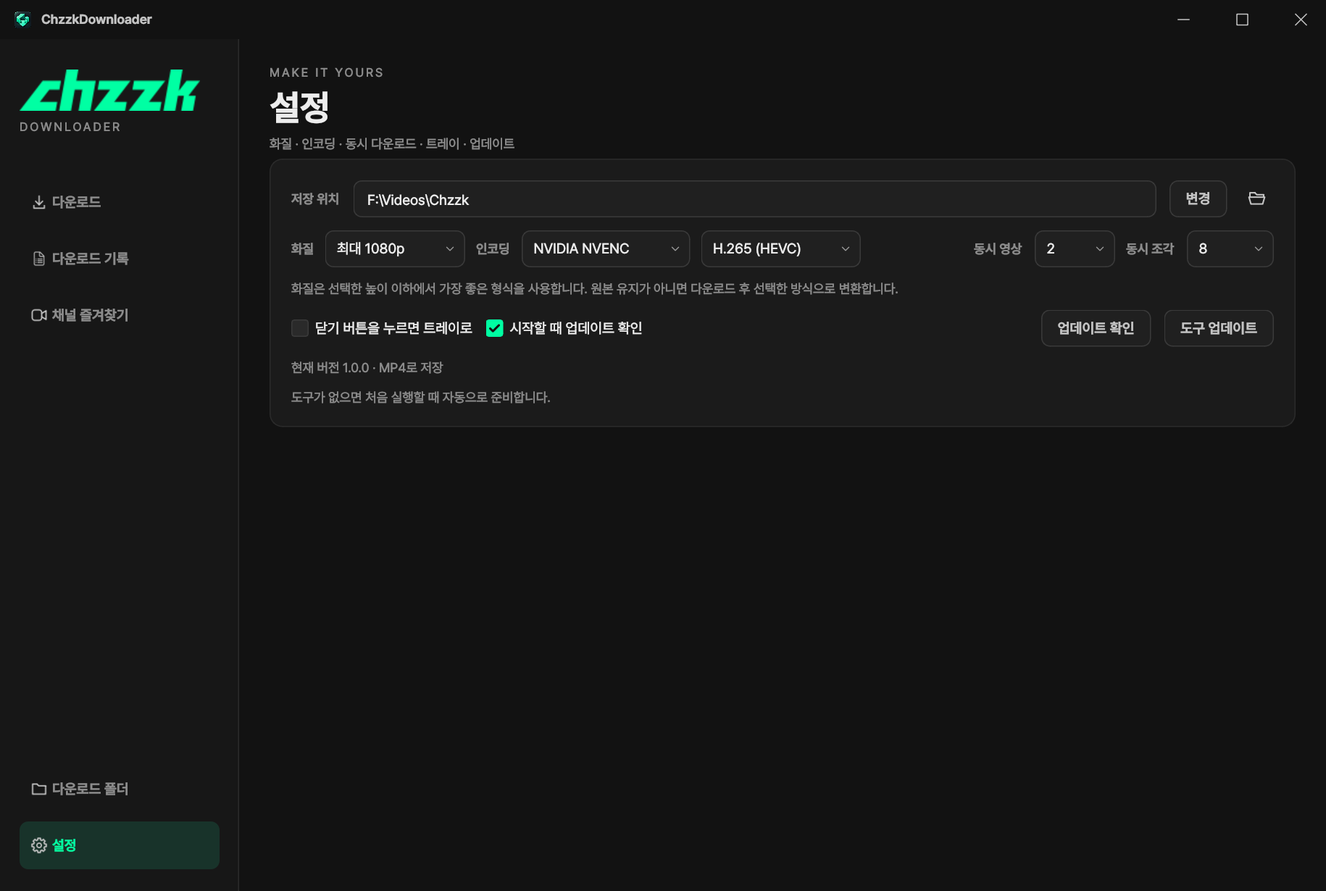
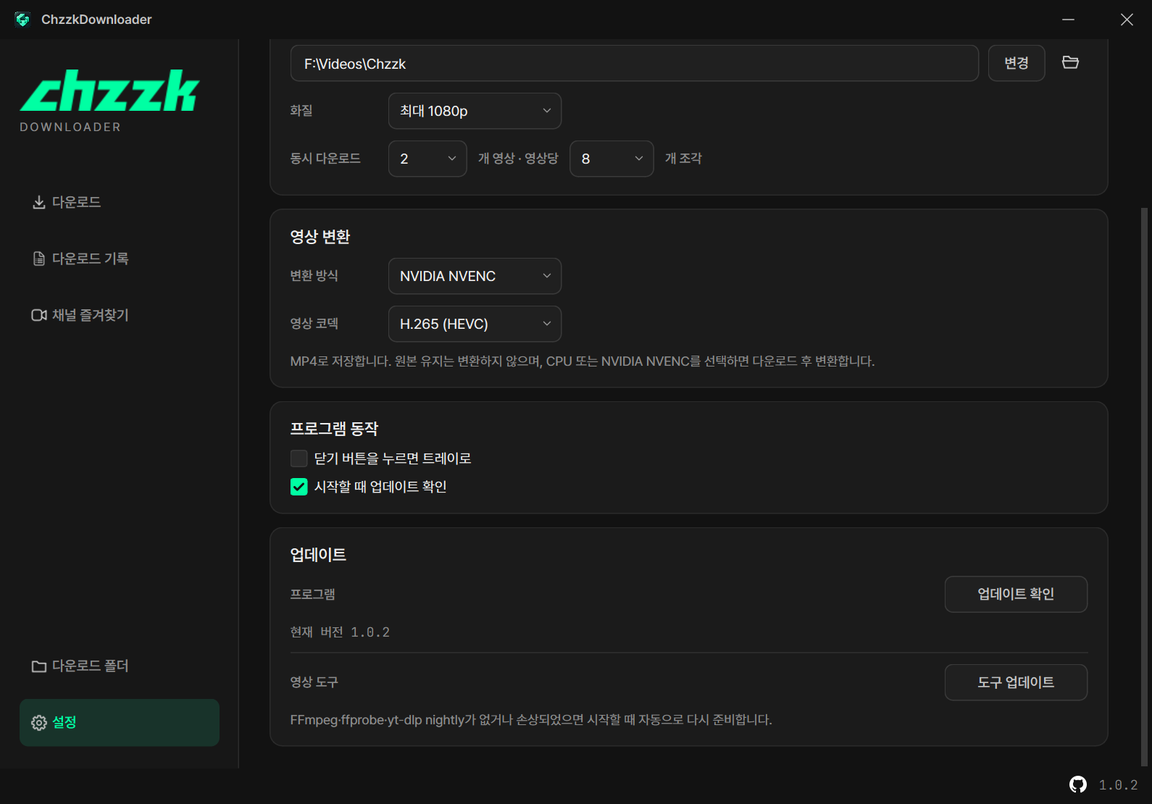
v1.0.2

diff --git a/docs/index.html b/docs/index.html
@@ -4,7 +4,7 @@
   <meta charset="utf-8">
   <meta name="viewport" content="width=device-width, initial-scale=1">
   <meta name="theme-color" content="#101412">
-  <meta name="description" content="ChzzkDownloader — 치지직 VOD와 클립을 내 폴더에. 화질 선택, 여러 영상 다운로드, 채널 즐겨찾기와 다운로드 기록까지 제공하는 Windows 다운로더.">
+  <meta name="description" content="ChzzkDownloader — 치지직 VOD와 클립을 내 폴더에. 치지직·YouTube·TVer 등 영상 주소 분석, 대기 목록 복원, 채널 즐겨찾기와 다운로드 기록을 제공하는 Windows 다운로더.">
   <title>ChzzkDownloader — 다시 보고 싶은 순간을, 내 폴더에</title>
   <link rel="icon" href="img/logo.svg" type="image/svg+xml">
   <link rel="stylesheet" href="style.css">
@@ -25,15 +25,15 @@
         <h1>다시 보고 싶은 순간을,<br><em>내 폴더에.</em></h1>
         <p class="lead">긴 다시보기도, 짧은 클립도.<br>링크를 붙여넣으면 나만의 영상 라이브러리가 시작됩니다.</p>
         <div class="hero-actions"><a class="button primary" href="https://github.com/deuxdoom/ChzzkDownloader/releases/latest" data-download><span class="github-icon" aria-hidden="true"></span>다운로드(.zip) <span aria-hidden="true">↓</span></a><a class="button secondary" href="#preview">화면 살펴보기 <span aria-hidden="true">↘</span></a></div>
-        <p class="availability">Windows 데스크톱 · 1.0.1 · 폴더형 포터블 앱</p>
-        <p class="release-note"><code>ChzzkDownloader_v101.zip</code> · 배포 파일은 GitHub 정식 릴리스에서 제공합니다.</p>
+        <p class="availability">Windows 데스크톱 · 1.0.2 · 폴더형 포터블 앱</p>
+        <p class="release-note"><code>ChzzkDownloader_v102.zip</code> · 배포 파일은 GitHub 정식 릴리스에서 제공합니다.</p>
       </div>
       <div class="hero-art" aria-hidden="true"><div class="orbit orbit-one"></div><div class="orbit orbit-two"></div><img src="img/logo.svg" width="256" height="256" alt=""><span class="art-label">KEEP THE MOMENT.</span></div>
     </section>
 
     <section class="guide wrap" id="start" data-chapter aria-labelledby="guide-title">
       <div class="guide-heading"><p class="eyebrow">THREE STEPS. YOUR LIBRARY.</p><h2 id="guide-title">시작하기</h2></div>
-      <ol class="steps"><li><span class="step-number">1</span><div><h3>프로그램 열기</h3><p><code>ChzzkDownloader_v101.zip</code>을 풀고 폴더 구조를 유지한 채 <code>ChzzkDownloader.exe</code>를 실행합니다. <code>lib</code>·<code>bin</code> 폴더는 EXE와 함께 두세요.</p></div></li><li><span class="step-number">2</span><div><h3>저장 위치와 옵션 고르기</h3><p>사이드바 맨 아래 ‘설정’에서 저장 위치·화질·인코딩·동시 다운로드 수를 정합니다. 저장 위치는 다음 실행에도 유지됩니다.</p></div></li><li><span class="step-number">3</span><div><h3>주소 붙여넣고 다운로드</h3><p>영상 주소를 붙여넣고 ‘다운로드’를 누르세요. 여러 영상은 ‘다중 다운로드’ 창에 한 줄씩 넣습니다. 이번 실행의 완료 영상은 다운로드 목록에서 바로 재생할 수 있습니다.</p></div></li></ol>
+      <ol class="steps"><li><span class="step-number">1</span><div><h3>프로그램 열기</h3><p><code>ChzzkDownloader_v102.zip</code>을 풀고 폴더 구조를 유지한 채 <code>ChzzkDownloader.exe</code>를 실행합니다. <code>lib</code>·<code>bin</code> 폴더는 EXE와 함께 두세요.</p></div></li><li><span class="step-number">2</span><div><h3>저장 위치와 옵션 고르기</h3><p>사이드바 맨 아래 ‘설정’에서 저장 위치·화질·인코딩·동시 다운로드 수를 정합니다. 저장 위치는 다음 실행에도 유지됩니다.</p></div></li><li><span class="step-number">3</span><div><h3>주소 붙여넣고 다운로드</h3><p>영상 주소를 붙여넣고 ‘다운로드’를 누르세요. 여러 영상은 ‘다중 다운로드’ 창에 한 줄씩 넣습니다. 이번 실행의 완료 영상은 다운로드 목록에서 바로 재생할 수 있습니다.</p></div></li></ol>
     </section>
 
     <section class="story" id="features" data-chapter aria-label="기능 스크롤 소개">
@@ -50,7 +50,7 @@
         </div>
         <div class="story-art" aria-hidden="true">
           <div class="story-glow"></div>
-          <div class="story-device"><img class="story-image library" src="img/app-input.png" width="1830" height="1230" alt=""><img class="story-image preferences" src="img/app-quality.png" width="1830" height="1230" alt=""><img class="story-image background" src="img/app-history.png" width="1830" height="1230" alt=""></div>
+          <div class="story-device"><img class="story-image library" src="img/app-input.png" width="1590" height="1110" alt=""><img class="story-image preferences" src="img/app-quality.png" width="1590" height="1110" alt=""><img class="story-image background" src="img/app-history.png" width="1590" height="1110" alt=""></div>
           <span class="floating-chip chip-a">MP4 · YOUR LIBRARY</span><span class="floating-chip chip-b">1080p · 60 fps</span><span class="floating-chip chip-c">CPU / NVIDIA NVENC</span>
         </div>
       </div>
@@ -60,54 +60,66 @@
       <p class="eyebrow">SMALL DETAILS. BETTER DOWNLOADS.</p>
       <h2 id="features-title">다운로드는 간단하게.<br>관리는 꼼꼼하게.</h2>
       <div class="feature-grid">
-        <article class="feature"><span class="feature-no">01 / INPUT</span><h3>링크만 있으면 준비 끝.</h3><p>치지직 VOD·클립은 물론 YouTube·인스타그램 등 어떤 사이트의 영상 주소든 붙여넣으세요. ‘다중 다운로드’ 창에 주소를 한 줄씩 넣어 한 번에 추가하거나, 브라우저에서 끌어놓을 수 있습니다.</p><span class="pill">ANY VIDEO URL</span></article>
+        <article class="feature"><span class="feature-no">01 / INPUT</span><h3>링크만 있으면 준비 끝.</h3><p>치지직 VOD·클립은 물론 YouTube·인스타그램·TVer 등 어떤 사이트의 영상 주소든 붙여넣으세요. ‘다중 다운로드’ 창에 주소를 한 줄씩 넣어 한 번에 추가하거나, 브라우저에서 끌어놓을 수 있습니다.</p><span class="pill">ANY VIDEO URL</span></article>
         <article class="feature"><span class="feature-no">02 / QUALITY</span><h3>내가 고른 화질과 형식.</h3><p>최고 화질 또는 원하는 해상도 상한을 선택하세요. MP4로 저장합니다. 원본 유지 또는 CPU/NVIDIA NVENC 인코딩, H.264(AVC)/H.265(HEVC)를 선택하세요.</p><span class="pill">MP4 · AVC / HEVC</span></article>
-        <article class="feature"><span class="feature-no">03 / SPEED</span><h3>긴 영상도 차근차근.</h3><p>최대 4개 영상과 영상당 최대 16개 조각을 동시에 다운로드합니다. 진행률과 전송 속도, 남은 시간을 카드에서 확인하세요.</p><span class="pill">PARALLEL DOWNLOADS</span></article>
+        <article class="feature"><span class="feature-no">03 / SPEED</span><h3>긴 영상도 차근차근.</h3><p>최대 4개 영상과 영상당 최대 16개 조각을 동시에 다운로드합니다. GB·MB 단위의 전송량과 진행률·속도·남은 시간을 카드에서 확인하세요. 숫자에는 JetBrains Mono를 적용했습니다.</p><span class="pill">PARALLEL DOWNLOADS</span></article>
         <article class="feature"><span class="feature-no">04 / HISTORY</span><h3>완료 영상은 바로 재생.</h3><p>이번 실행의 완료 영상은 다운로드 목록에서 재생하거나 더블클릭하세요. ‘완료 항목 정리’로 숨겨도 영상과 기록은 남습니다. 이전 실행의 작업·실패·취소 항목은 다운로드 기록에서 확인합니다.</p><span class="pill">DOWNLOAD HISTORY</span></article>
-        <article class="feature"><span class="feature-no">05 / CONTROL</span><h3>필요할 때 잠깐 쉬어가기.</h3><p>대기열을 멈추면 진행 중인 영상은 계속 받고 다음 작업의 시작을 기다립니다. 실패한 작업은 한 번에 재시도하세요.</p><span class="pill">QUEUE CONTROL</span></article>
+        <article class="feature"><span class="feature-no">05 / CONTROL</span><h3>필요할 때 잠깐 쉬어가기.</h3><p>대기열을 멈추면 진행 중인 영상은 계속 받고 다음 작업의 시작을 기다립니다. 취소·대기·종료 중단 목록은 다시 실행해도 대기로 남고, ‘대기열 계속’을 누르면 이어집니다. 실패한 작업은 한 번에 재시도하세요.</p><span class="pill">QUEUE CONTROL</span></article>
         <article class="feature"><span class="feature-no">06 / YOUR FILES</span><h3>영상은 내 폴더에 바로.</h3><p>영상 제목 그대로 저장하고 같은 이름이 있으면 번호를 붙입니다. 목록 정리와 다운로드 취소에도 이미 완성한 파일은 보존됩니다.</p><span class="pill">LOCAL FIRST</span></article>
         <article class="feature"><span class="feature-no">07 / BACKGROUND</span><h3>트레이에서 이어가기.</h3><p>창을 숨겨도 다운로드는 계속됩니다. 트레이 메뉴에서 대기열을 멈추거나 재개하고, 완료 알림으로 다시 돌아오세요.</p><span class="pill">SYSTEM TRAY</span></article>
         <article class="feature"><span class="feature-no">08 / UPDATES</span><h3>새 버전으로 자연스럽게.</h3><p>새 버전의 추가·변경·수정 내역을 먼저 보여 줍니다. ‘지금 업데이트’를 선택하면 다운로드가 끝난 뒤 같은 프로그램의 독립 업데이트 모드가 배포 파일을 검증하고 프로그램을 교체합니다.</p><span class="pill">INDEPENDENT UPDATER</span></article>
         <article class="feature"><span class="feature-no">09 / ENCODING</span><h3>빠르게, 또는 가볍게.</h3><p>원본 유지가 기본입니다. 변환이 필요할 때 CPU/NVENC와 AVC/HEVC를 선택하세요. 변환 실패·취소 시 다운로드한 원본은 보존합니다.</p><span class="pill">AVC / HEVC</span></article>
         <article class="feature"><span class="feature-no">10 / FAVORITES</span><h3>즐겨찾는 채널에서 골라 받기.</h3><p>채널명이나 주소로 검색해 즐겨찾기에 저장하세요. 채널 카드를 누르면 VOD를 썸네일·제목·날짜로 확인하고 원하는 영상만 선택해 받을 수 있습니다.</p><span class="pill">CHANNEL FAVORITES</span></article>
-        <article class="feature"><span class="feature-no">11 / TOOLS</span><h3>영상 도구도 간편하게.</h3><p>첫 실행에 FFmpeg·ffprobe와 yt-dlp nightly를 받고, 시작할 때마다 확인해 없거나 손상되었으면 자동으로 다시 준비합니다. 작업이 끝난 뒤 설정의 ‘도구 업데이트’를 누르면 최신 FFmpeg와 yt-dlp nightly를 검증하고 다음 다운로드부터 적용합니다.</p><span class="pill">FFMPEG · YT-DLP NIGHTLY</span></article>
+        <article class="feature"><span class="feature-no">11 / TOOLS</span><h3>영상 도구도 간편하게.</h3><p>첫 실행에 FFmpeg·ffprobe와 yt-dlp nightly를 받고, 시작할 때마다 확인해 없거나 손상되었으면 자동으로 다시 준비합니다. 작업이 끝난 뒤 설정의 ‘도구 업데이트’를 누르면 바뀌었거나 손상된 도구만 검증해 교체합니다. 이미 최신인 도구는 다시 받지 않습니다.</p><span class="pill">FFMPEG · YT-DLP NIGHTLY</span></article>
+        <article class="feature"><span class="feature-no">12 / DUPLICATES</span><h3>같은 영상은 한 번 더 확인.</h3><p>완료 기록과 같은 영상 주소를 다시 넣으면 중복 다운로드 안내를 보여 줍니다. ‘다시 다운로드’를 선택한 영상만 새로 추가합니다.</p><span class="pill">DOWNLOAD CONFIRMATION</span></article>
+        <article class="feature"><span class="feature-no">13 / LOGS</span><h3>필요한 로그만 펼쳐 보기.</h3><p>‘완료 항목 정리’ 오른쪽의 로그 버튼으로 열고 닫습니다. 카드 선택이나 작업 필터로 원하는 로그만 확인하며, 스크롤바 때문에 버튼과 카드가 좌우로 밀리지 않습니다.</p><span class="pill">JOB LOG FILTER</span></article>
       </div>
     </section>
 
     <section class="preview wrap" id="preview" data-chapter aria-labelledby="preview-title">
-      <div class="preview-top"><div><p class="eyebrow">A CALMER WAY TO DOWNLOAD</p><h2 id="preview-title">필요한 것만, 한눈에.</h2></div><span class="version-tag">ChzzkDownloader 1.0.1</span></div>
-      <div class="screen"><img src="img/app-download.png" width="1830" height="1230" alt="ChzzkDownloader의 다운로드 화면. 왼쪽 사이드바에 다운로드·다운로드 기록·채널 즐겨찾기와 맨 아래 다운로드 폴더·설정, 오른쪽에 주소 입력·다중 다운로드 버튼과 대기·진행·완료 영상 카드가 보입니다. 완료 카드는 재생할 수 있습니다." fetchpriority="high"></div>
-      <p class="caption">실제 앱 인터페이스 · 작업 내용은 화면 소개를 위한 예시입니다.</p>
+      <div class="preview-top"><div><p class="eyebrow">A CALMER WAY TO DOWNLOAD</p><h2 id="preview-title">필요한 것만, 한눈에.</h2></div><span class="version-tag">ChzzkDownloader 1.0.2</span></div>
+      <div class="screen"><img src="img/app-download.png" width="1590" height="1110" alt="ChzzkDownloader의 다운로드 화면. 왼쪽 사이드바에 다운로드·다운로드 기록·채널 즐겨찾기와 맨 아래 다운로드 폴더·설정, 오른쪽에 주소 입력·다중 다운로드 버튼과 대기·진행·완료 영상 카드가 보입니다. 완료 카드는 재생할 수 있습니다." fetchpriority="high"></div>
+      <p class="caption">실제 1.0.2 앱 인터페이스 · 영상과 진행 상태는 소개용 예시입니다. 메인 창 오른쪽 아래의 흰색 GitHub 아이콘만 저장소 링크이며, 버전 숫자는 일반 표시입니다.</p>
     </section>
 
     <section class="settings wrap" id="multi-download" aria-labelledby="multi-title">
-      <div class="settings-copy"><p class="eyebrow">MORE LINKS. ONE LIST.</p><h2 id="multi-title">여러 영상도,<br>한 줄씩 간단하게.</h2><p>다운로드 화면의 ‘다중 다운로드’를 누르고 주소를 한 줄에 하나씩 넣으세요. 주소 개수를 확인한 뒤 ‘다운로드 (개수)’를 누르면 입력한 순서대로 목록에 추가됩니다.</p><p class="muted">중복 주소와 주소가 아닌 입력은 건너뜁니다. 설정한 동시 영상 수만큼 받고, 나머지는 대기합니다.</p></div>
-      <div class="settings-screen"><img src="img/app-multi.png" width="960" height="630" loading="lazy" alt="다중 다운로드 창. 여러 사이트의 영상 주소를 한 줄씩 입력하고 주소 개수와 다운로드 버튼을 확인합니다."></div>
+      <div class="settings-copy"><p class="eyebrow">MORE LINKS. ONE LIST.</p><h2 id="multi-title">여러 영상도,<br>한 줄씩 간단하게.</h2><p>다운로드 화면의 ‘다중 다운로드’를 누르고 주소를 한 줄에 하나씩 넣으세요. 주소 개수를 확인한 뒤 ‘다운로드 (개수)’를 누르면 입력한 순서대로 목록에 추가됩니다.</p><p class="muted">입력 안의 중복 주소와 주소가 아닌 줄은 건너뜁니다. 완료 기록과 같은 영상은 다시 다운로드할지 먼저 확인합니다. TVer는 일본 VPN에 연결한 뒤 받아야 하며 다운로드가 끝날 때까지 연결을 유지하세요.</p></div>
+      <div class="settings-screen"><img src="img/app-multi.png" width="960" height="662" loading="lazy" alt="다중 다운로드 창. 여러 사이트의 영상 주소를 한 줄씩 입력하고 주소 개수와 다운로드 버튼을 확인합니다."></div>
     </section>
 
     <section class="settings wrap" id="settings" aria-labelledby="settings-title">
-      <div class="settings-copy"><p class="eyebrow">SET IT ONCE.</p><h2 id="settings-title">취향에 맞춰 두면,<br>그다음은 붙여넣기.</h2><p>사이드바 맨 아래의 ‘설정’에서 저장 위치, 화질, 인코딩, 동시 다운로드 수, 트레이와 업데이트를 정하세요. 저장 위치를 바꾸면 다음 실행에도 유지됩니다. 첫 실행에 FFmpeg·ffprobe와 yt-dlp nightly를 받고 시작할 때마다 확인해 없거나 손상된 도구를 자동 준비하며, ‘도구 업데이트’로 최신 FFmpeg·yt-dlp nightly를 받을 수 있습니다.</p><p class="muted">기존 yt-dlp 지원 사이트도 함께 사용할 수 있습니다. 사이트의 변경이나 계정 접근 조건에 따라 다운로드 가능 여부가 달라질 수 있습니다.</p></div>
-      <div class="settings-screen"><img src="img/app-settings.png" width="1830" height="1230" loading="lazy" alt="설정 화면. 저장 위치·화질·CPU/NVENC·H.264/H.265·동시 영상과 조각 수·트레이·프로그램 업데이트 확인과 도구 업데이트를 설정합니다."></div>
+      <div class="settings-copy"><p class="eyebrow">SET IT ONCE.</p><h2 id="settings-title">취향에 맞춰 두면,<br>그다음은 붙여넣기.</h2><p>사이드바 맨 아래의 ‘설정’에서 저장·다운로드, 영상 변환, 프로그램 동작, 업데이트 카드에서 필요한 항목을 정하세요. 저장 위치를 바꾸면 다음 실행에도 유지됩니다. 첫 실행에 FFmpeg·ffprobe와 yt-dlp nightly를 받고 시작할 때마다 확인해 없거나 손상된 도구를 자동 준비하며, ‘도구 업데이트’는 최신 도구를 다시 받지 않고 필요한 도구만 교체합니다. 창 크기는 해상도와 Windows 배율에 맞춰 자동으로 정해지고, 작은 화면에서는 설정 내용을 스크롤로 볼 수 있습니다.</p><p class="muted">기존 yt-dlp 지원 사이트도 함께 사용할 수 있습니다. 사이트의 변경이나 계정 접근 조건에 따라 다운로드 가능 여부가 달라질 수 있습니다.</p></div>
+      <div class="settings-screen"><img src="img/app-settings.png" width="1590" height="1110" loading="lazy" alt="설정 화면. 저장 위치·화질·CPU/NVENC·H.264/H.265·동시 영상과 조각 수·트레이·프로그램 업데이트 확인과 도구 업데이트를 설정합니다."></div>
     </section>
 
     <section class="channels wrap" id="channels" data-chapter aria-labelledby="channels-title">
       <div class="channels-head"><div><p class="eyebrow">YOUR CHANNELS. YOUR PICKS.</p><h2 id="channels-title">좋아하는 채널은,<br>카드 한 장으로.</h2></div><p>‘채널 즐겨찾기’에서 채널명이나 주소로 찾아 ‘추가’를 누르세요. 저장한 카드를 누르면 그 채널의 VOD가 썸네일·제목·날짜와 함께 펼쳐지고, 원하는 영상만 골라 바로 받을 수 있습니다.</p></div>
       <div class="channel-shots">
-        <figure><div class="settings-screen"><img src="img/app-favorites.png" width="1830" height="1230" loading="lazy" alt="채널 즐겨찾기 화면. 위쪽에 채널 주소 검색과 오른쪽에 ‘추가’ 버튼이 있는 결과 카드, 아래쪽에 아바타와 채널명이 있는 저장한 채널 카드 다섯 개가 있습니다."></div><figcaption>검색하고, 추가하고, 카드로 모아 두기</figcaption></figure>
-        <figure><div class="settings-screen"><img src="img/app-channel.png" width="1830" height="1230" loading="lazy" alt="채널 VOD 화면. 채널 아바타와 이름 아래에 썸네일·재생 시간·제목·게시일이 있는 VOD 카드가 격자로 놓이고, 선택한 두 카드가 민트색으로 표시됩니다."></div><figcaption>썸네일로 고르고, 선택한 영상만 다운로드</figcaption></figure>
+        <figure><div class="settings-screen"><img src="img/app-favorites.png" width="1590" height="1110" loading="lazy" alt="채널 즐겨찾기 화면. 위쪽에 채널명·주소 검색과 오른쪽에 ‘추가’ 버튼이 있는 결과 카드, 아래쪽에 아바타와 채널명이 있는 저장한 채널 카드 다섯 개가 있습니다."></div><figcaption>검색하고, 추가하고, 카드로 모아 두기</figcaption></figure>
+        <figure><div class="settings-screen"><img src="img/app-channel.png" width="1590" height="1110" loading="lazy" alt="채널 VOD 화면. 채널 아바타와 이름 아래에 썸네일·재생 시간·제목·게시일이 있는 VOD 카드가 격자로 놓이고, 선택한 두 카드가 민트색으로 표시됩니다."></div><figcaption>썸네일로 고르고, 선택한 영상만 다운로드</figcaption></figure>
       </div>
       <p class="caption">실제 앱 인터페이스 · 채널과 VOD 정보는 공개 목록 예시이며, 작업 상태는 화면 소개를 위한 예시입니다.</p>
     </section>
 
+    <section class="settings wrap" id="tools" aria-labelledby="tools-title">
+      <div class="settings-copy"><p class="eyebrow">READY AT A GLANCE.</p><h2 id="tools-title">도구 준비도,<br>하단에서 한눈에.</h2><p>어느 탭에 있든 하단 상태바에서 도구 확인·다운로드·설치 상황을 확인할 수 있습니다. 다운로드 진행률은 민트색으로 표시하며, 완료 안내는 5초 뒤 서서히 사라집니다.</p><p class="muted">실제 1.0.2 화면 · 도구 다운로드 55%는 소개용 예시입니다.</p></div>
+      <div class="settings-screen"><img src="img/app-tools.png" width="1590" height="1110" loading="lazy" alt="모든 탭에 표시되는 메인 창 하단 도구 다운로드 상태와 55% 진행률, 오른쪽 아래 GitHub 아이콘과 버전 1.0.2 예시."></div>
+    </section>
+
+    <section class="settings wrap" id="age-rating" aria-labelledby="age-title">
+      <div class="settings-copy"><p class="eyebrow">KNOW BEFORE YOU PICK.</p><h2 id="age-title">연령 제한은,<br>썸네일에서 확인.</h2><p>연령 확인이 필요한 치지직 영상은 썸네일 오른쪽 위의 빨간색 19세 배지로 구분합니다. 공개 영상과 지역 제한만 있는 영상에는 이 배지를 표시하지 않습니다.</p><p class="muted">실제 1.0.2 화면 · 영상과 제한 상태는 소개용 예시입니다. 로그인 쿠키 가져오기 기능은 제공하지 않습니다.</p></div>
+      <div class="settings-screen"><img src="img/app-channel-age.png" width="1590" height="1110" loading="lazy" alt="연령 제한 표시 예시 채널의 썸네일 오른쪽 위에 표시한 빨간색 19세 배지와 배지가 없는 공개 영상 카드."></div>
+    </section>
+
     <section class="settings updates wrap" id="updates" aria-labelledby="updates-title">
-      <div class="settings-copy"><p class="eyebrow">ALWAYS UP TO DATE.</p><h2 id="updates-title">새 버전은,<br>알아서 안전하게.</h2><p>시작할 때 GitHub의 정식 릴리스를 확인합니다. 처음 뜨는 안내창에서 추가·변경·수정 내역을 읽고 ‘지금 업데이트’ 또는 ‘나중에’를 선택하세요. 설치를 고르면 진행 중인 다운로드가 끝난 뒤 업데이트 창이 이어받아 새 버전을 준비합니다.</p><ol class="update-steps"><li>새 버전의 변경 내역 확인 · 지금 업데이트 / 나중에 선택</li><li>ZIP 다운로드 · SHA-256 검증</li><li>프로그램 파일만 교체 · 실패하면 원래대로 복원</li><li>다시 시작 · 완료 5초 뒤 업데이트 창 자동 닫힘</li></ol><p class="muted">저장한 영상 · 다운로드 기록 · 설정 · 채널 즐겨찾기는 바꾸지 않습니다. ‘설정 → 업데이트 확인’으로 직접 확인할 수도 있습니다.</p></div>
+      <div class="settings-copy"><p class="eyebrow">ALWAYS UP TO DATE.</p><h2 id="updates-title">새 버전은,<br>알아서 안전하게.</h2><p>시작할 때 GitHub의 정식 릴리스를 확인합니다. 처음 뜨는 안내창에서 추가·변경·수정 내역을 읽고 ‘지금 업데이트’ 또는 ‘나중에’를 선택하세요. 설치를 고르면 진행 중인 다운로드가 끝난 뒤 업데이트 창이 이어받아 새 버전을 준비합니다.</p><ol class="update-steps"><li>새 버전의 변경 내역 확인 · 지금 업데이트 / 나중에 선택</li><li>ZIP 다운로드 · SHA-256 검증</li><li>프로그램 파일만 교체 · 실패하면 원래대로 복원</li><li>다시 시작 · 완료 5초 뒤 업데이트 창 자동 닫힘</li></ol><p class="muted">저장한 영상 · 다운로드 기록 · 설정 · 채널 즐겨찾기는 바꾸지 않습니다. ‘설정 → 업데이트 확인’으로 직접 확인하면 최신 버전일 때도 안내창을 보여 줍니다.</p></div>
       <div class="settings-screen update-screen"><img src="img/app-update.png" width="960" height="900" loading="lazy" alt="업데이트 창. 새 버전 파일을 내려받는 진행률과 상태, 릴리스 내역, 저장한 영상·기록·설정은 그대로 이어진다는 안내가 보입니다."></div>
     </section>
 
-    <section class="faq wrap" id="faq" data-chapter aria-labelledby="faq-title"><h2 id="faq-title">궁금한 점이 있다면.</h2><details><summary>어떤 주소를 입력하나요?</summary><p>영상이 있는 페이지의 주소라면 사이트를 가리지 않고 분석해 받습니다. 치지직은 <code>https://chzzk.naver.com/video/번호</code> VOD 주소나 <code>https://chzzk.naver.com/clips/ID</code> 클립 주소, 그 밖에 YouTube(쇼츠)·인스타그램 릴스 등의 개별 영상 주소를 입력하세요. 여러 주소는 ‘다중 다운로드’ 창에 한 줄씩 넣으세요. 채널에서 고르려면 ‘채널 즐겨찾기’에 저장한 뒤 VOD 카드를 선택하세요.</p></details><details><summary>채널 즐겨찾기는 어떻게 쓰나요?</summary><p>채널명 또는 <code>https://chzzk.naver.com/채널ID</code> 주소로 검색해 결과 카드의 ‘추가’를 누릅니다. 저장한 카드를 누르면 공개 VOD가 썸네일·제목·날짜 카드로 표시되고, 카드를 눌러 선택한 영상만 다운로드합니다.</p></details><details><summary>로그인이 필요한 영상도 받을 수 있나요?</summary><p>공개 영상만 지원합니다. 연령 확인이 필요하거나 구독자 전용인 영상은 받을 수 없습니다.</p></details><details><summary>일시정지를 누르면 받던 영상도 멈추나요?</summary><p>대기열 일시정지는 새로운 영상의 시작을 멈춥니다. 진행 중인 영상은 계속 다운로드하며, 해당 영상의 취소 버튼으로 중단할 수 있습니다.</p></details><details><summary>기록을 정리하면 영상도 지워지나요?</summary><p>다운로드 기록에서 해당 항목과 미리보기 캐시만 제거합니다. 저장 폴더의 영상 파일은 유지됩니다.</p></details></section>
+    <section class="faq wrap" id="faq" data-chapter aria-labelledby="faq-title"><h2 id="faq-title">궁금한 점이 있다면.</h2><details><summary>어떤 주소를 입력하나요?</summary><p>영상이 있는 페이지의 주소라면 사이트를 가리지 않고 분석해 받습니다. 치지직은 <code>https://chzzk.naver.com/video/번호</code> VOD 주소나 <code>https://chzzk.naver.com/clips/ID</code> 클립 주소, 그 밖에 YouTube(쇼츠)·인스타그램 릴스 등의 개별 영상 주소를 입력하세요. 여러 주소는 ‘다중 다운로드’ 창에 한 줄씩 넣으세요. 채널에서 고르려면 ‘채널 즐겨찾기’에 저장한 뒤 VOD 카드를 선택하세요.</p></details><details><summary>채널 즐겨찾기는 어떻게 쓰나요?</summary><p>채널명 또는 <code>https://chzzk.naver.com/채널ID</code> 주소로 검색해 결과 카드의 ‘추가’를 누릅니다. 저장한 카드를 누르면 공개 VOD가 썸네일·제목·날짜 카드로 표시되고, 카드를 눌러 선택한 영상만 다운로드합니다.</p></details><details><summary>TVer 영상은 어떻게 받나요?</summary><p>TVer의 개별 에피소드 주소를 넣으세요. 일본 VPN에 연결해야 하며 다운로드가 끝날 때까지 유지해야 합니다.</p></details><details><summary>취소·대기 목록은 다시 실행하면 어떻게 되나요?</summary><p>대기 상태로 복원되며 자동으로 시작하지 않습니다. ‘대기열 계속’을 누르면 저장한 위치와 옵션으로 시작합니다. 완료 기록과 같은 영상을 추가하면 다시 다운로드할지 확인합니다.</p></details><details><summary>로그인이 필요한 영상도 받을 수 있나요?</summary><p>공개 영상만 지원합니다. 연령 확인이 필요한 치지직 영상은 19세 배지로 표시하지만, 로그인 쿠키를 가져오는 기능은 없어 연령 확인·구독자 전용 영상은 받을 수 없습니다.</p></details><details><summary>일시정지를 누르면 받던 영상도 멈추나요?</summary><p>대기열 일시정지는 새로운 영상의 시작을 멈춥니다. 진행 중인 영상은 계속 다운로드하며, 해당 영상의 취소 버튼으로 중단할 수 있습니다.</p></details><details><summary>기록을 정리하면 영상도 지워지나요?</summary><p>다운로드 기록에서 해당 항목과 미리보기 캐시만 제거합니다. 저장 폴더의 영상 파일은 유지됩니다.</p></details></section>
 
     <section class="closing wrap" id="download" data-chapter><div><p class="eyebrow">READY WHEN YOU ARE.</p><h2>좋아하는 방송을,<br>오래 간직하세요.</h2></div><div class="closing-actions"><a class="button primary" href="https://github.com/deuxdoom/ChzzkDownloader/releases/latest" data-download><span aria-hidden="true">↓</span> 다운로드(.zip)</a><a class="button secondary" href="https://github.com/deuxdoom/ChzzkDownloader/releases/latest"><span class="github-icon" aria-hidden="true"></span>최신 릴리즈 확인 <span aria-hidden="true">↗</span></a></div></section>
   </main>
-  <footer class="footer wrap"><div><a class="brand" href="#"><img src="img/logo.svg" width="28" height="28" alt=""><span>ChzzkDownloader</span></a><p>치지직·YouTube 등 영상 주소를 받는 개인 프로젝트. NAVER의 공식 프로그램이 아닙니다.</p><p>소스 비공개 · 배포 및 소개 목적 · 사전 허락 없는 상업적 이용·재배포 금지</p></div><div class="footer-links"><a href="https://github.com/deuxdoom/ChzzkDownloader"><span class="github-icon" aria-hidden="true"></span>GitHub</a><a href="https://github.com/deuxdoom/ChzzkDownloader/issues"><span class="github-icon" aria-hidden="true"></span>문제 제보</a><a href="https://github.com/deuxdoom/ChzzkDownloader/blob/main/LICENSE">이용 조건</a><a href="https://github.com/deuxdoom/TVerDownloader"><span class="github-icon" aria-hidden="true"></span>참고 프로젝트</a></div></footer>
+  <footer class="footer wrap"><div><a class="brand" href="#"><img src="img/logo.svg" width="28" height="28" alt=""><span>ChzzkDownloader</span></a><p>치지직·YouTube·TVer 등 영상 주소를 받는 개인 프로젝트. NAVER의 공식 프로그램이 아닙니다.</p><p>소스 비공개 · 배포 및 소개 목적 · 사전 허락 없는 상업적 이용·재배포 금지</p></div><div class="footer-links"><a href="https://github.com/deuxdoom/ChzzkDownloader"><span class="github-icon" aria-hidden="true"></span>GitHub</a><a href="https://github.com/deuxdoom/ChzzkDownloader/issues"><span class="github-icon" aria-hidden="true"></span>문제 제보</a><a href="https://github.com/deuxdoom/ChzzkDownloader/blob/main/LICENSE">이용 조건</a><a href="https://github.com/deuxdoom/TVerDownloader"><span class="github-icon" aria-hidden="true"></span>참고 프로젝트</a></div></footer>
 </body>
 </html>

diff --git a/README.md b/README.md
@@ -11,6 +11,8 @@
 
 ![ChzzkDownloader 다운로드 화면](docs/img/app-download.png)
 
+1.0.2의 실제 앱 화면입니다. 영상과 진행 상태는 소개를 위한 예시입니다.
+
 <p align="center">
   <a href="https://deuxdoom.github.io/ChzzkDownloader/"><img src="https://img.shields.io/badge/%ED%99%88%ED%8E%98%EC%9D%B4%EC%A7%80-00b377?style=for-the-badge" alt="홈페이지"></a>
   <a href="https://github.com/deuxdoom/ChzzkDownloader/releases/latest"><img src="https://img.shields.io/github/v/release/deuxdoom/ChzzkDownloader?style=for-the-badge&label=%EB%8B%A4%EC%9A%B4%EB%A1%9C%EB%93%9C&labelColor=2f353a&color=00b377" alt="최신 버전 다운로드"></a>
@@ -34,9 +36,9 @@
 
 ## 📌 간단 소개
 
-치지직 VOD와 클립을 MP4로 저장하는 프로그램입니다. 
-주소를 붙여넣거나, 즐겨찾는 채널에서 영상을 골라 받습니다. 
-유투브 영상, 인스타 릴스를 비롯 yt-dlp가 지원하는 기타 영상도 받을 수 있습니다.
+치지직 VOD·클립, YouTube, 인스타그램, TVer 등 여러 사이트의 영상 주소를 분석해 MP4로 저장하는 Windows 프로그램입니다.
+주소를 붙여넣거나, 즐겨찾는 치지직 채널에서 영상을 골라 받습니다.
+TVer는 일본 VPN에 연결한 상태에서 다운로드해야 합니다.
 
 <a id="requirements"></a>
 
@@ -54,22 +56,37 @@
 - **완료 항목**: 이번 실행에서 완료한 영상은 다운로드 목록에서 재생하거나 더블클릭. ‘완료 항목 정리’로 숨겨도 기록과 영상은 유지
 - **대기 목록 복원**: 취소·대기·종료 중단 작업은 다시 실행하면 대기 상태로 복원. ‘대기열 계속’을 누르면 이전 저장 위치와 다운로드 설정으로 시작
 - **중복 다운로드 확인**: 완료 기록과 같은 영상 주소를 다시 넣으면 다시 다운로드할지 확인
-- **채널 즐겨찾기**: 채널명이나 주소로 검색해 저장하고, 저장한 카드를 드래그해 순서 변경. 채널 VOD를 썸네일·제목·날짜 카드로 보며 골라 받기
+- **채널 즐겨찾기**: 채널명이나 주소로 검색해 저장하고, 저장한 카드를 드래그해 순서 변경. 채널 VOD를 썸네일·제목·날짜 카드로 보며 골라 받기. 연령 제한 영상은 썸네일 오른쪽 위의 19세 배지로 구분
 - **다운로드 기록**: 완료·실패·취소 작업을 따로 모아 다시 재생·재시도. 썸네일은 다시 열어도 유지
+- **작업 로그**: 목록 상단의 로그 버튼으로 열고 닫기. 카드 선택이나 로그 필터로 원하는 작업만 확인하며 로그를 열어도 입력창·버튼·카드가 좌우로 밀리지 않음
 - **MP4 저장·변환**: 원본 유지가 기본. 필요하면 CPU 또는 NVIDIA NVENC로 H.264(AVC)·H.265(HEVC) 변환. 변환이 실패하거나 취소돼도 원본 보존
 - **트레이 실행**: 창을 닫아도 트레이에서 다운로드 계속, 대기열 일시정지·재개, 완료 알림
-- **자동 업데이트**: GitHub 정식 릴리스의 추가·변경·수정 내역을 확인한 뒤 ‘지금 업데이트’·‘나중에’를 선택. 설치 시 SHA-256 검증 후 프로그램만 교체. 영상·기록·설정은 그대로
-- **도구 업데이트**: 첫 실행에 FFmpeg·ffprobe와 yt-dlp nightly를 받고, 시작할 때마다 확인해 없거나 손상되었으면 자동으로 다시 준비. 설정의 ‘도구 업데이트’는 최신 도구를 다시 받지 않고 바뀌었거나 손상된 도구만 교체해 다음 다운로드부터 적용
+- **자동 업데이트**: GitHub 정식 릴리스의 추가·변경·수정 내역을 확인한 뒤 ‘지금 업데이트’·‘나중에’를 선택. 설치 시 SHA-256 검증 후 프로그램만 교체. 영상·기록·설정은 그대로. 설정에서 직접 확인했을 때 최신이면 안내창 표시
+- **도구 업데이트**: 첫 실행에 FFmpeg·ffprobe와 yt-dlp nightly를 받고, 시작할 때마다 확인해 없거나 손상되었으면 자동으로 다시 준비. 모든 탭의 하단에서 상태·진행률을 확인하고, 완료 안내는 5초 뒤 서서히 사라짐. 설정의 ‘도구 업데이트’는 최신 도구를 다시 받지 않고 바뀌었거나 손상된 도구만 교체
+- **화면과 버전 표시**: 화면 해상도와 Windows 배율에 맞춘 고정 창. 진행률·속도·버전에는 JetBrains Mono를 적용하고, 메인 창 오른쪽 아래의 흰색 GitHub 아이콘을 누르면 저장소로 이동
 
 <a id="usage"></a>
 
 ## 🚀 사용 방법
 
 1. 릴리스의 `.zip` 파일을 다운받아 압축을 풀고 `ChzzkDownloader.exe`를 실행합니다.
-2. 첫 실행에는 인터넷으로 필요한 영상 도구(FFmpeg·ffprobe, yt-dlp nightly)를 자동으로 받습니다. 도구 파일이 손상되었으면 시작할 때 다시 받습니다. 준비가 끝나면 사이드바 맨 아래 **설정**에서 저장 위치·화질·인코딩·동시 다운로드 수를 정합니다. 
+2. 첫 실행에는 인터넷으로 필요한 영상 도구(FFmpeg·ffprobe, yt-dlp nightly)를 자동으로 받습니다. **창 하단의 상태와 진행 표시**로 준비 상황을 확인하세요. 준비가 끝나면 사이드바 맨 아래 **설정**에서 저장·다운로드, 영상 변환, 프로그램 동작, 업데이트 항목을 정합니다.
 3. 어떤 사이트의 영상 주소든 붙여넣고 **다운로드**를 누릅니다. 여러 영상을 한꺼번에 추가하고 싶을 경우 **다중 다운로드** 창에 한 줄씩 넣고 **다운로드 (개수)**를 누릅니다. 입력 순서대로 목록에 추가되며 설정한 동시 영상 수만큼 시작합니다.
 4. 채널 단위로 고르려면 **채널 즐겨찾기**에서 채널을 검색 저장한 뒤 카드를 눌러 영상을 선택합니다. 
 5. 다운이 완료된 영상은 **다운로드 목록**에서 바로 재생 가능합니다. 이전 실행의 작업·실패·취소 항목은 **다운로드 기록**에서 확인합니다.
+6. 취소·대기·종료 중단 작업은 다음 실행에 대기로 복원됩니다. **대기열 계속**으로 재개하세요. 완료 기록과 같은 영상을 다시 추가하면 **다시 다운로드**할지 확인합니다.
+
+### 화면 살펴보기
+
+| 설정 | 채널 영상 |
+| --- | --- |
+| ![저장·다운로드, 영상 변환, 프로그램 동작, 업데이트로 구분한 설정](docs/img/app-settings.png) | ![썸네일로 영상을 고르는 채널 화면](docs/img/app-channel.png) |
+
+| 도구 준비 | 연령 제한 표시 |
+| --- | --- |
+| ![메인 하단의 도구 다운로드 상태와 진행률](docs/img/app-tools.png) | ![썸네일 오른쪽 위의 19세 배지 예시](docs/img/app-channel-age.png) |
+
+화면은 실제 1.0.2 UI이며 도구 진행률·영상 목록·연령 제한 표시는 소개용 예시입니다. 19세 배지는 제한 여부를 알려 주며 로그인 인증 기능을 제공하지 않습니다.
 
 <a id="cautions"></a>
 
@@ -97,4 +114,4 @@ EXE 옆의 `settings.json`(설정), `history.json`(다운로드 기록), `favori
 - **상업적 이용 금지**: 제작자의 사전 허락 없이 판매·유료 서비스 제공 등 영리 목적으로 이용할 수 없습니다.
 - **무단 재배포 금지**: 제작자의 사전 허락 없이 프로그램·배포 파일·자체 제작 자료를 재업로드하거나, 수정한 버전을 배포할 수 없습니다. 소개할 때는 공식 홈페이지나 릴리스 링크를 공유해 주세요.
 
-사용하는 FFmpeg·yt-dlp(첫 실행 때 받음)·PySide6·Pretendard·아이콘(Fluent UI System Icons, Octicons) 등 외부 구성요소에는 각각의 라이선스가 적용되며, 위 제한은 해당 라이선스가 부여하는 권리를 제한하지 않습니다.
+사용하는 FFmpeg·yt-dlp(첫 실행 때 받음)·PySide6·Pretendard·JetBrains Mono·아이콘(Fluent UI System Icons, Octicons) 등 외부 구성요소에는 각각의 라이선스가 적용되며, 위 제한은 해당 라이선스가 부여하는 권리를 제한하지 않습니다.

diff --git a/CHANGELOG.md b/CHANGELOG.md
@@ -4,8 +4,6 @@
 아래 날짜는 로컬 빌드 기준입니다. 출시 하지 않은 빌드 내용은 배포 예정으로 기록합니다.
 
 
-## [Unreleased]
-
 ## [1.0.2] - 2026-10-06
 
 ### Added
@@ -18,6 +16,7 @@
 
 ### Changed
 
+- README의 사용 방법·설정·로그·대기 목록·중복 확인·도구 상태·19세 배지·버전 표시 안내를 1.0.2 동작에 맞추고, 기존 앱 스크린샷 9장을 다시 캡처한다. 하단 도구 준비와 연령 제한 배지 화면을 추가하며 소개용 작업/진행 상태임을 명시한다.
 - 다운로드 상태 줄의 용량·속도를 십진 단위 GB·MB·KB로 표시하고 조각 수를 숨겨 진행률·전송량·속도·남은 시간을 더 간결하게 보여 준다. 좁은 화면에서는 상태 문구를 줄바꿈해 남은 시간이 잘리지 않도록 하며 조각 수집·재시도·다운로드 방식은 유지한다.
 - 하단 도구 준비·업데이트 성공 문구는 5초 뒤 서서히 사라진다. 새 도구 작업이 시작되면 대기 중인 숨김/애니메이션을 취소하고 다시 표시하며, 실패 문구는 확인할 수 있도록 남긴다. GitHub 아이콘·버전과 하단 줄 위치는 유지한다.
 - 시작 시 영상 도구 확인·자동 다운로드 상태를 주소 입력 아래에서 메인 창 하단 버전 표시줄로 옮긴다. 모든 탭에서 민트색 상태 문구와 실제 도구 다운로드 진행률을 표시하고, 확인·검증·설치처럼 진행률이 없는 단계는 움직이는 진행 표시를 사용한다. 완료는 녹색, 실패는 붉은색으로 구분하고 설정의 도구 상태 안내도 유지한다.
@@ -34,9 +33,11 @@
 ### Fixed
 
 - 로그를 열고 닫을 때 스크롤바가 나타나며 입력창·관리 버튼·카드 구성요소가 좌우로 밀리던 문제: 다운로드·기록 화면과 카드 목록에 스크롤바 공간을 미리 확보하고, 로그를 포함한 패널의 최소 높이를 유지한다. 스크롤이 필요하지 않으면 스크롤바 손잡이를 숨기며 필요한 경우에는 기존 스크롤을 사용할 수 있다.
-- 배성재의 텐 등 일부 공개 치지직 VOD에서 썸네일과 재생 정보는 조회되지만 다운로드가 HTTP 403으로 실패하던 문제: Akamai CDN의 특정 인증값을 같은 호스트의 하위 HLS 재생목록·영상 조각·AES 키 요청에도 전달한다. 기존 Naver 관련값 처리와 하위 목록의 별도 인증값은 보존한다. API에 제한 표시가 없는 채널 영상의 실패 안내에는 연령·지역 제한을 추측해 덧붙이지 않는다.
+- 일부 공개 치지직 VOD에서 썸네일과 재생 정보는 조회되지만 다운로드가 HTTP 403으로 실패하던 문제: Akamai CDN의 특정 인증값을 같은 호스트의 하위 HLS 재생목록·영상 조각·AES 키 요청에도 전달한다. 기존 Naver 관련값 처리와 하위 목록의 별도 인증값은 보존한다. API에 제한 표시가 없는 채널 영상의 실패 안내에는 연령·지역 제한을 추측해 덧붙이지 않는다.
 - ‘도구 업데이트’를 누를 때 설치된 도구가 최신이어도 FFmpeg·ffprobe·yt-dlp nightly를 모두 다시 받던 문제: 공식 최신 릴리스와 설치 파일의 버전·SHA-256·실행 상태를 비교해 최신 도구는 그대로 유지하고, 변경되었거나 손상된 도구만 검증 후 교체한다. 최신이면 ‘도구가 이미 최신 버전입니다’를 표시한다.
 - 수동으로 ‘업데이트 확인’을 눌렀을 때 최신 버전이라는 결과가 상태 문구에만 표시되던 문제: 현재 버전과 ‘이미 최신 버전입니다’ 팝업을 표시한다. 프로그램 시작 시 자동 확인은 기존처럼 최신 버전 팝업을 띄우지 않는다.
+
+---
 
 ## [1.0.1] - 2026-10-06
 
@@ -67,6 +68,8 @@
 - 채널 VOD 첫 조회나 새로고침이 실패하면 제목이 ‘불러옵니다…’로 남고 같은 화면에서 다시 시도할 수 없던 문제.
 - 영상 도구를 받는 동안 채널 VOD 썸네일과 즐겨찾기 채널 아바타가 실패한 채 남고, 도구가 준비된 뒤에도 다시 불러오지 않던 문제: 도구가 준비될 때까지 기다렸다가 자동으로 불러온다. 실패한 아바타는 즐겨찾기 화면을 열 때 다시 요청하고, 채널 화면은 채널 아바타를 직접 받아 표시한다.
 - 사용자 PC에 F: 드라이브가 있기만 하면 설치 위치와 관계없이 업데이트 사본을 f 드라이브에 만들던 문제(개발 환경 경로가 배포 코드에 남아 있었음): 항상 프로그램 폴더의 `.updates`에서 준비해 설치한 드라이브만 사용한다. 1.0.0이 예전 위치에 남긴 사본은 이 프로그램 소유로 기록된 것만 다음 시작 때 정리한다.
+
+---
 
 ## [1.0.0] - 2026-10-06
 
